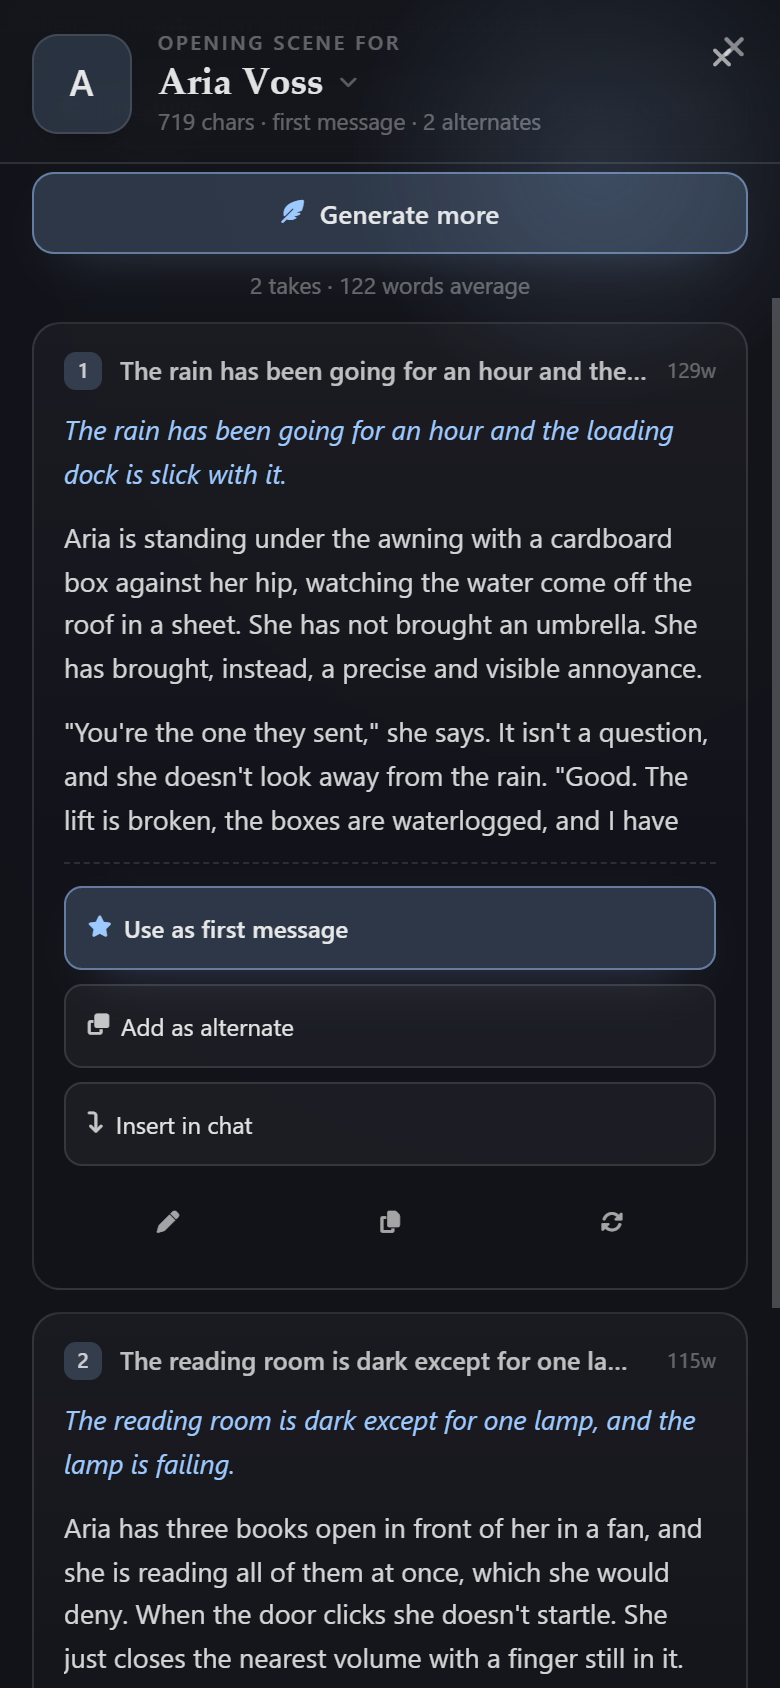
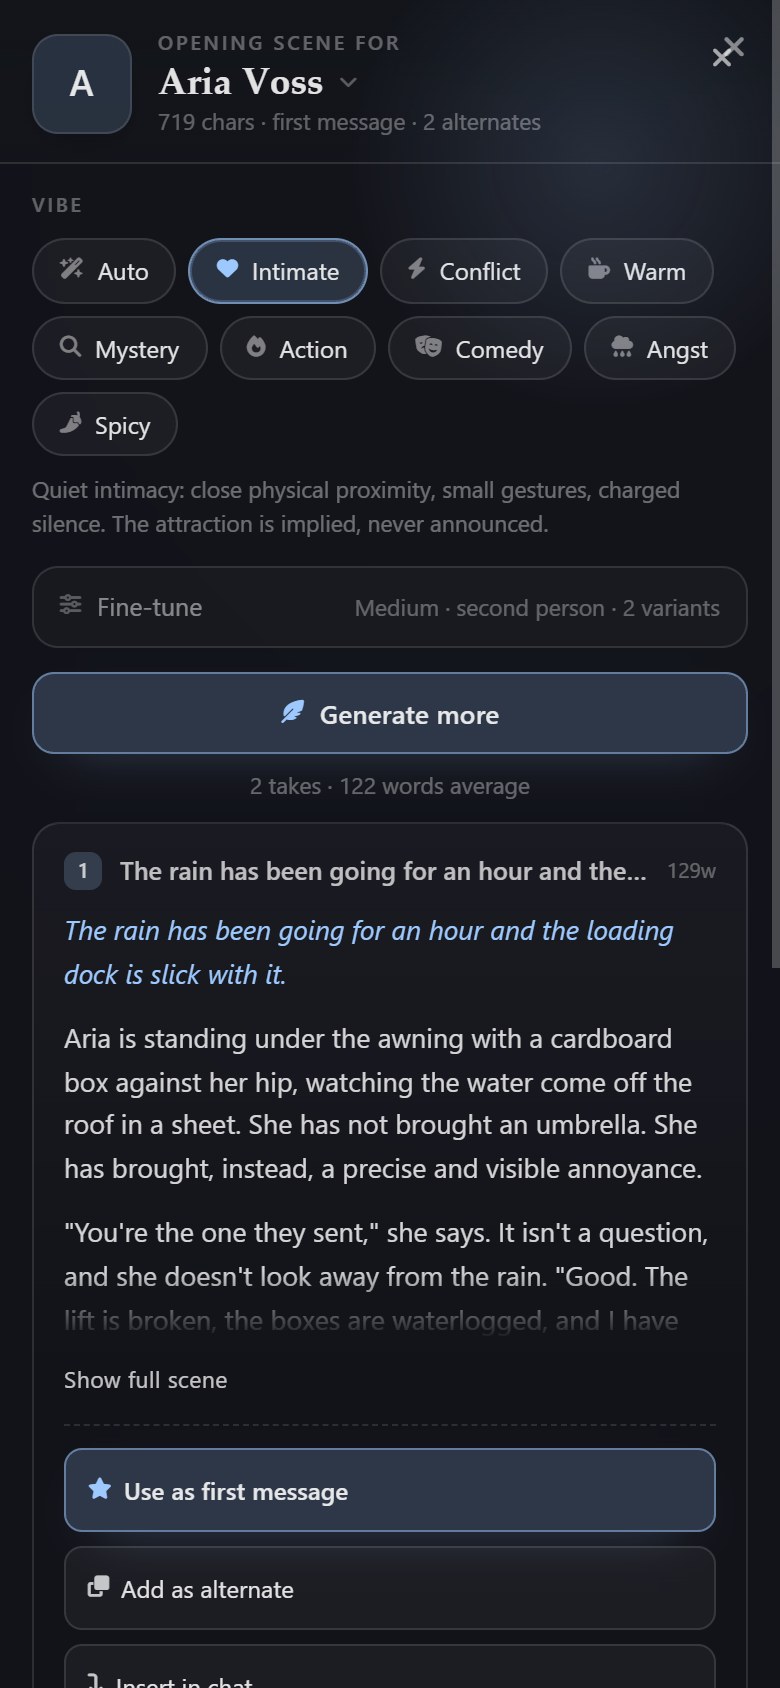
Docs: re-shoot the phone screenshot from the top of the sheet; keep the asset upload helper

Changed region(s): [[0.0308, 0.0, 1.0, 1.0], [0.9846, 0.5545, 1.0, 0.8009]]

diff --git a/test/upload_asset.py b/test/upload_asset.py
@@ -1,0 +1,47 @@
+"""Uploads st-opening-scenes.zip to an existing release (replacing any existing asset)."""
+
+import json
+import os
+import sys
+import urllib.request
+
+ROOT = os.path.dirname(os.path.dirname(os.path.abspath(__file__)))
+REPO = "HakaiGod420/st-opening-scenes"
+TOKEN = sys.argv[1]
+VERSION = sys.argv[2]
+ZIP = os.path.join(ROOT, "st-opening-scenes.zip")
+
+AUTH = {
+    "Authorization": f"Bearer {TOKEN}",
+    "Accept": "application/vnd.github+json",
+    "User-Agent": "hermes",
+}
+
+
+def call(url, data=None, method="GET", headers=None):
+    request = urllib.request.Request(url, data=data, method=method, headers=headers or AUTH)
+    with urllib.request.urlopen(request) as response:
+        body = response.read()
+        return json.loads(body) if body else {}
+
+
+release = call(f"https://api.github.com/repos/{REPO}/releases/tags/v{VERSION}")
+print("release:", release["html_url"], "id", release["id"])
+
+for asset in release.get("assets", []):
+    call(f"https://api.github.com/repos/{REPO}/releases/assets/{asset['id']}", method="DELETE")
+    print("removed old asset:", asset["name"])
+
+with open(ZIP, "rb") as handle:
+    blob = handle.read()
+
+asset = call(
+    f"https://uploads.github.com/repos/{REPO}/releases/{release['id']}/assets?name=st-opening-scenes.zip",
+    data=blob,
+    method="POST",
+    headers={**AUTH, "Content-Type": "application/zip"},
+)
+
+print("uploaded:", asset["name"], asset["size"], "bytes")
+print("local:", len(blob), "bytes")
+print("match:", asset["size"] == len(blob))
